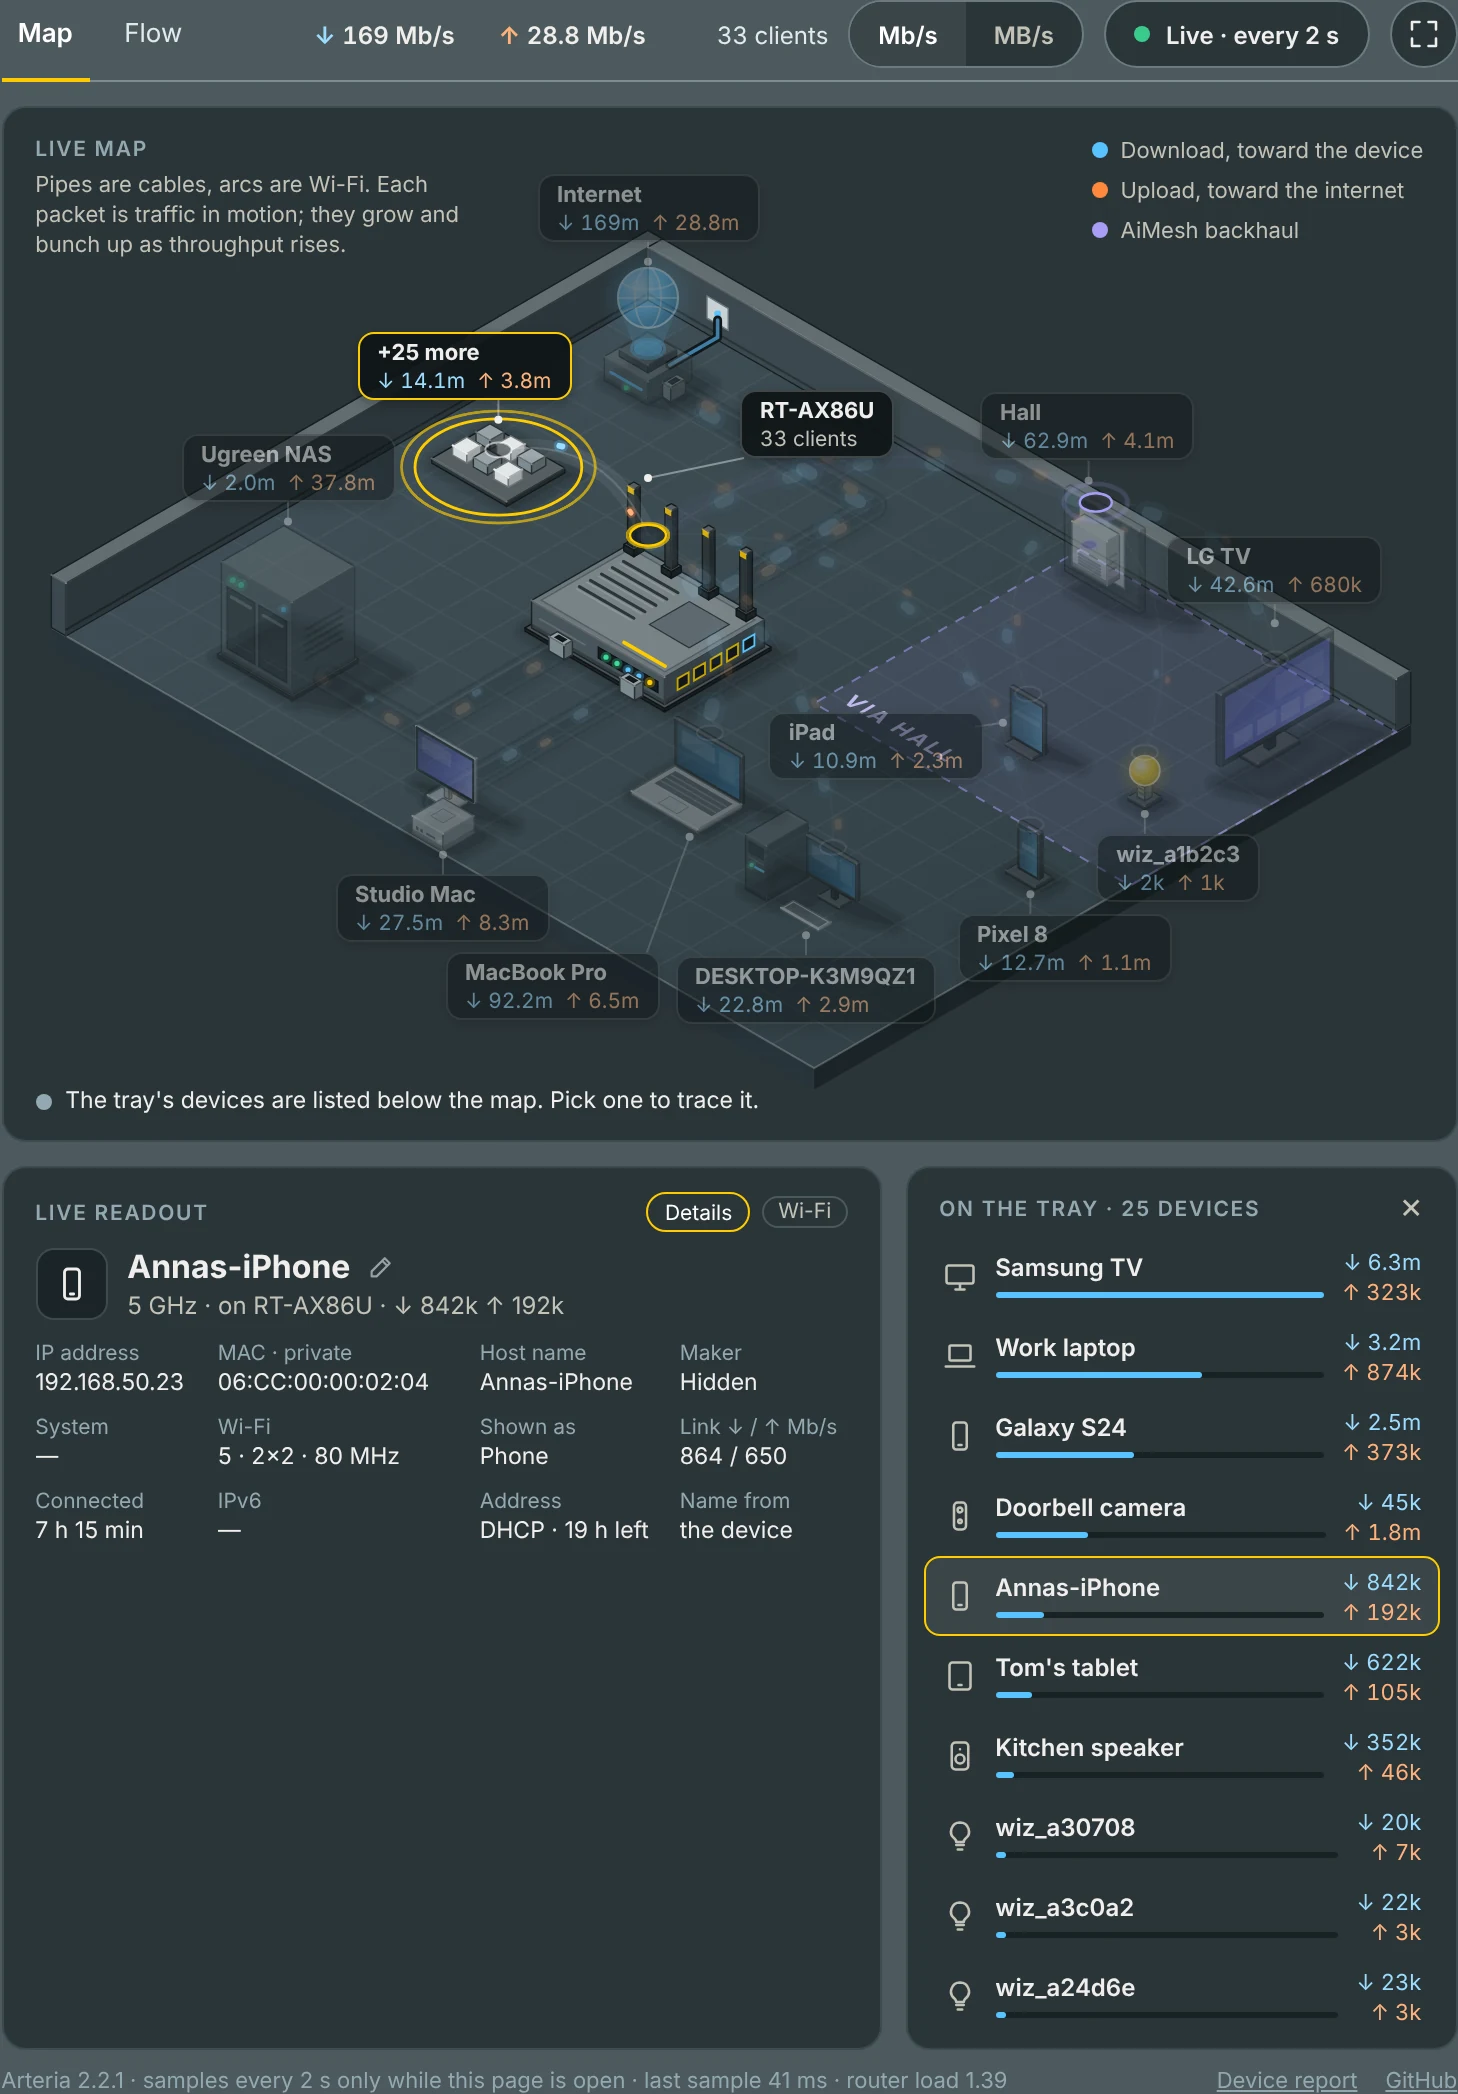
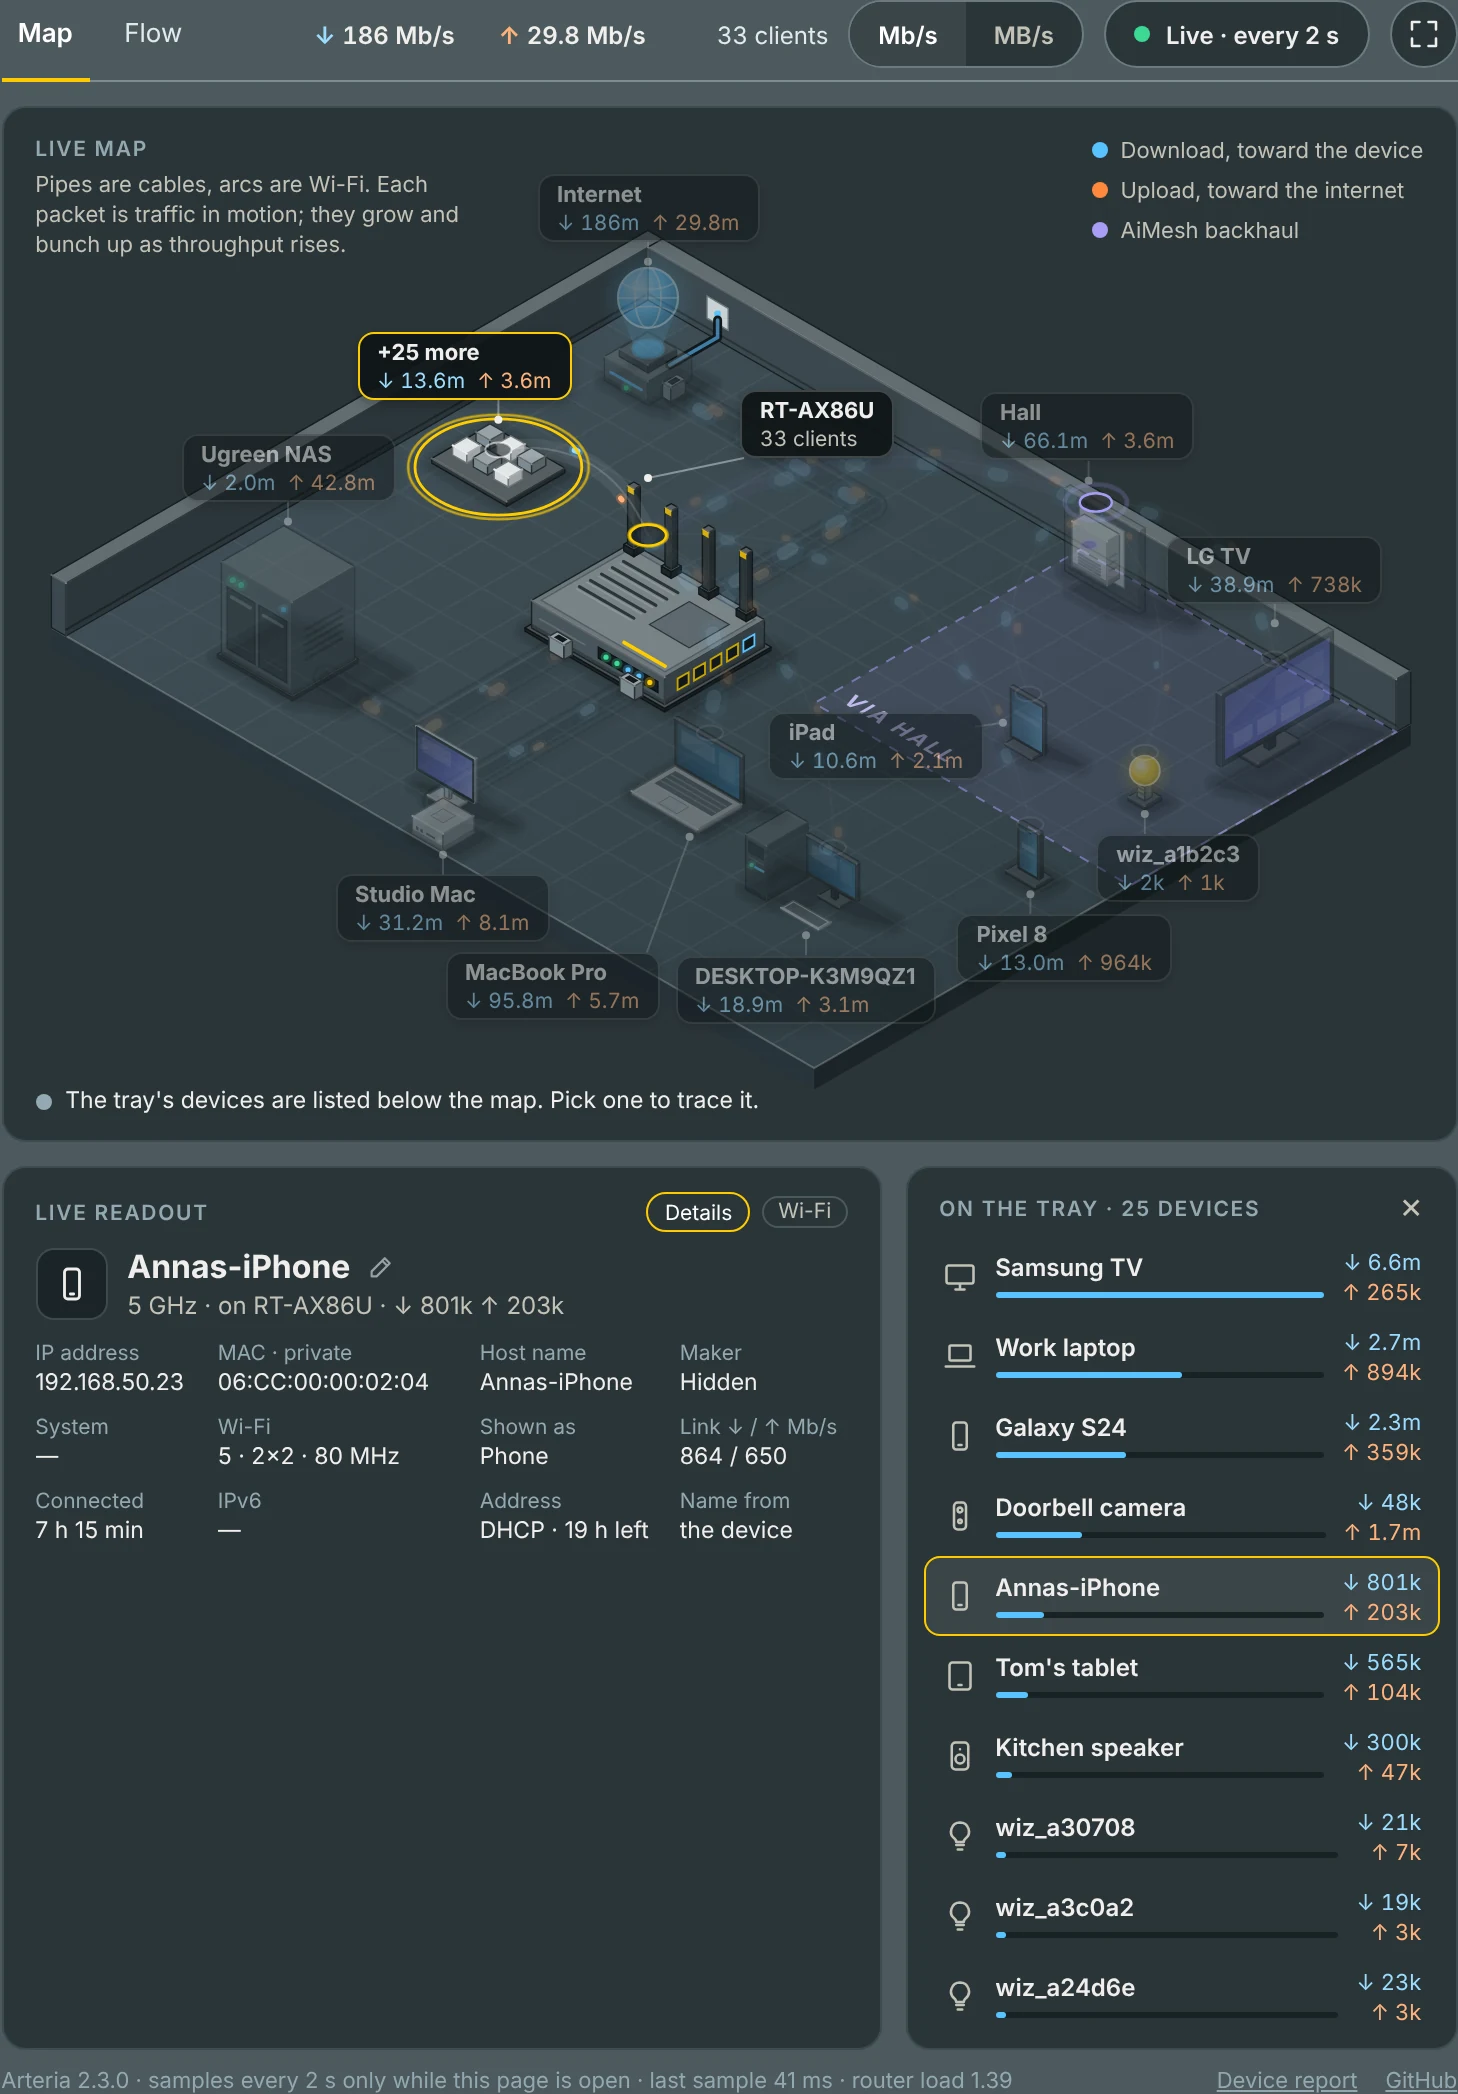
Release 2.3.0
VERSION 2.3.0 in the script, the page and the bug report form (2.2.1 was
never released: its map work is in 2.3.0). CHANGELOG: 2.3.0, the map's
room and traffic lines, busy devices off the tray, VLAN and IPTV ports,
nodes' sleeping Wi-Fi devices. README: those, and which releases were
reviewed. The README's pictures, demo and forum GIF retaken (2.3.0 in the
footer).

Claude-Session: https://claude.ai/code/session_01VjX2uxd3MpU6CZq6psEPw5

Changed region(s): [[0.0617, 0.9933, 0.7099, 1.0], [0.2778, 0.1862, 0.4321, 0.2483], [0.3086, 0.6208, 0.3395, 0.6519]]

diff --git a/README.md b/README.md
@@ -13,7 +13,7 @@ It only works while you're looking: sampling starts when you open its page and s
 
 An **Arteria** tab in **Traffic Analyzer** (or the last tab of **Network Tools** on routers without it), with:
 
-- **Map**: an isometric drawing of your network. Cables are pipes (to a node on a wired backhaul and its wired devices too), Wi-Fi links are arcs, and each moving packet is traffic: blue toward the device (download), orange toward the internet (upload), violet the AiMesh backhaul. Packets grow and bunch up as throughput rises. Devices behind a node stand in its zone, devices of a kind stand together (bulbs by bulbs, TVs by TVs), no two drawings overlap, and each label sits right next to its device, off other devices' traffic. The map leaves room round each device when it can, and packs them closer only to show more of them. When a zone is full, the rest wait on a *+N more* tray, which opens a list; a busy device comes off it, but traffic never moves a device that is already on the map. The map has room for two nodes, three in the expanded view: with more, the busiest get a zone (when none is much busier, the ones with the most devices), and the tray names the others (*+1 node*), with their devices in its list. Flow shows every node.
+- **Map**: an isometric drawing of your network. Cables are pipes (to a node on a wired backhaul and its wired devices too), Wi-Fi links are arcs, and each moving packet is traffic: blue toward the device (download), orange toward the internet (upload), violet the AiMesh backhaul. Packets grow and bunch up as throughput rises. Devices behind a node stand in its zone, devices of a kind stand together (bulbs by bulbs, TVs by TVs), no two drawings overlap, and each label sits right next to its device, off other devices' traffic. The map leaves room round each device when it can, and packs them closer only to show more of them. When a zone is full, the rest wait on a *+N more* tray, which opens a list; a busy device comes off it by itself, and traffic moves a device already on the map only when a busy one has no room otherwise (then the map is laid out afresh, as on a reload). The map has room for two nodes, three in the expanded view: with more, the busiest get a zone (when none is much busier, the ones with the most devices), and the tray names the others (*+1 node*), with their devices in its list. Flow shows every node.
 - **Flow**: a Sankey "river" from the internet (and traffic between your own devices) through the router, each band, port and node, to every device, for download or upload.
 - **Trace any device**: tap it and everything else dims. The readout shows its rates, share, signal, link rate and path (*RT-AX86U → Hall → LG TV*), and **Details** shows its IP and MAC, host name, maker, system, Wi-Fi standard, connection time, IPv6 and DHCP lease.
 - **Rename it right there**: the pencil after its name opens a field; the icon shows what the new name will make it while you type. The name goes into the router's own client list, so the router shows it too. See [Devices](#devices).
@@ -28,7 +28,7 @@ An **Arteria** tab in **Traffic Analyzer** (or the last tab of **Network Tools**
 Every 2 seconds while the page is open the router writes one sample (in RAM), and the page turns the differences between samples into rates.
 
 - **Wi-Fi devices**: the driver's per-client byte counters (`wl sta_info`), which also give signal and link rate; on a node, the same counters, read on the node. A Wi-Fi 7 device that joined as a multi-link device is listed by the radio under a link address made from its own: it's matched to its own address, the one DHCP and the client list know.
-- **Wired devices**: the router's port counters, with the LAN bridges' address tables telling which device is on which port. A port has one counter, so the devices behind a switch share its figure: the switch shows as one device (*Switch on LAN 3*), and picking it lists the devices behind it by name, each with its details. A switch with an address of its own that you named so (*Switch-01*) or gave a switch's icon is named after itself, with its IP and MAC, and isn't in its own list. A switch with an AiMesh node on it carries what the port does beyond the node. Ports are numbered as printed on the router, from the firmware's own port map where it has one, and bonded ports (link aggregation) are one port, *LAN 1+2*. On a node, the same, read on the node: its LAN ports' counters (a port given to a VLAN, and a bond, too) and the addresses its bridges learned on them, leaving out the port that leads back to the router. A node's port is named after the node (*Hall LAN*): Arteria doesn't know its printed number.
+- **Wired devices**: the router's port counters, with the LAN bridges' address tables telling which device is on which port. A port has one counter, so the devices behind a switch share its figure: the switch shows as one device (*Switch on LAN 3*), and picking it lists the devices behind it by name, each with its details. A switch with an address of its own that you named so (*Switch-01*) or gave a switch's icon is named after itself, with its IP and MAC, and isn't in its own list. A switch with an AiMesh node on it carries what the port does beyond the node. Ports are numbered as printed on the router, from the firmware's own port map where it has one, bonded ports (link aggregation) are one port, *LAN 1+2*, and a port the firmware took out of its LAN list but still bridges (given to a Guest Network Pro VLAN in Access mode, or to an IPTV set-top box) is read like any other. On a node, the same, read on the node: its LAN ports' counters (a port given to a VLAN, and a bond, too) and the addresses its bridges learned on them, leaving out the port that leads back to the router; the addresses its bridges learned on the Wi-Fi it serves are its own devices (asleep too), never devices on the router's port it is behind. A node's port is named after the node (*Hall LAN*): Arteria doesn't know its printed number.
 - **AiMesh backhaul**: the router's counters for the node's Wi-Fi link or port. A node that is read counts its own uplink too, so several nodes behind one of the router's ports (a switch, or one node wired behind another) each show their own traffic.
 - **Internet**: the WAN interface's counters (both, with Dual WAN). **Local traffic** is what your devices send each other or the router itself, which is why *Whole network* is usually higher than *Internet*.
 - **Names and details** come from the router's own client list, DHCP leases and reservations, ARP and IPv6 neighbours, and the Wi-Fi driver.
@@ -182,7 +182,7 @@ For amtm's module, Arteria follows amtm's conventions for third-party scripts: w
 
 Something not working? `arteria.sh doctor` looks for the known problems and says what fixes each; `doctor fix` fixes the ones it can. It also sends a request like the page's and says whether it reaches Arteria and samples follow, which is what a page stuck on *Connecting…* needs to know. Found a bug, or run Arteria on another router? [Open an issue](https://github.com/IfSugar/arteria/issues/new/choose) or post in the [SNBForums thread](https://www.snbforums.com/threads/98274/); the issue form asks for `check` and `debug`.
 
-**Security reviews.** Each feature release was reviewed by separate AI reviewers (Claude) that hadn't written the code, looking for bugs, regressions and security problems, and showing each finding on a stand-in router and in a browser; what they found was fixed (1.0.0: [pull request #15](https://github.com/IfSugar/arteria/pull/15); 2.0.0: [pull request #27](https://github.com/IfSugar/arteria/pull/27); 2.1.0: [pull request #40](https://github.com/IfSugar/arteria/pull/40); 2.2.0: [pull request #52](https://github.com/IfSugar/arteria/pull/52)). No human security expert has reviewed it yet; if you know Merlin or shell security well, a review is very welcome. Please report security problems privately: see the [security policy](.github/SECURITY.md).
+**Security reviews.** Releases 1.0.0, 2.0.0, 2.1.0 and 2.2.0 were each reviewed by separate AI reviewers (Claude) that hadn't written the code, looking for bugs, regressions and security problems, and showing each finding on a stand-in router and in a browser; what they found was fixed (1.0.0: [pull request #15](https://github.com/IfSugar/arteria/pull/15); 2.0.0: [pull request #27](https://github.com/IfSugar/arteria/pull/27); 2.1.0: [pull request #40](https://github.com/IfSugar/arteria/pull/40); 2.2.0: [pull request #52](https://github.com/IfSugar/arteria/pull/52)). No human security expert has reviewed it yet; if you know Merlin or shell security well, a review is very welcome. Please report security problems privately: see the [security policy](.github/SECURITY.md).
 
 ## License
 

diff --git a/CHANGELOG.md b/CHANGELOG.md
@@ -2,16 +2,22 @@
 
 What changed in each release of Arteria. The release workflow copies a version's section into its GitHub release notes, so write for people running the addon.
 
-## 2.2.1
+## 2.3.0
 
-More room on the map: labels keep clear of other devices and no longer hide the traffic on other devices' lines, and in the expanded view the internet moves to the floor's top corner. The spacing adapts to how full the floor is, so the map shows as many devices as 2.2.0 did.
+More room on the map: labels keep clear of other devices and no longer hide the traffic on other devices' lines, and in the expanded view the internet moves to the floor's top corner. The spacing adapts to how full the floor is, so the map shows about as many devices as 2.2.0 did, and a device that gets busy comes off the tray by itself, a TV too. Also wired devices on a port given to a Guest Network Pro VLAN or to an IPTV set-top box, and no more sleeping Wi-Fi sensors listed behind a switch that nodes are on. Thanks to K3r1m0 and jksmurf in the SNBForums thread for reporting them.
 
 ### The map
 
 - **Labels no longer hide traffic.** A label could sit over another device's Wi-Fi arc or cable, and the packets on it went out of sight there. A label now keeps off every traffic line but its own device's, and the start of the lines leaving the router or node it stands by. A Wi-Fi arc curves more or less to pass round labels, and a cable to or from a node is laid round them.
 - **More room round each device.** Drawings stand further apart, and a label keeps a gap from the drawings that aren't its own (more in the expanded view), so labels no longer almost touch other devices.
-- **The room adapts to the floor.** The roomy layout is used when it shows every device it can. When the floor is full it moves things closer, at most as close as 2.2.0 did, rather than send devices to the **+N more** tray, so the map never shows fewer devices than 2.2.0. Only on the fullest floors may a line pass under a label, and only where that label has no other spot (8 lines on a 28-device floor in a 1920×960 window, where 2.2.0 had 25).
+- **The room adapts to the floor.** The roomy layout is used when it shows every device it can. When the floor is full it moves things closer, about as close as 2.2.0 did, rather than send devices to the **+N more** tray, so the map shows about as many devices as 2.2.0 (on a few floors, one fewer). Only on the fullest floors may a line pass under a label, and only where that label has no other spot: far fewer than in 2.2.0.
+- **A device that gets busy comes off the tray by itself.** A device waiting on the **+N more** tray that got much busier than one on the map (a TV starting a 4K stream) was picked for the map, but it took only the stand the quieter one left. When that stand was too small for its drawing (a TV where a phone stood), it stayed on the tray until the page was reloaded. The map is now laid out afresh then, as on a reload, and it shows within a sample or two. The devices already on the map may move then; otherwise traffic still never moves them.
 - **The internet stands in the floor's top corner in the expanded view**, as it does in the page's view, with its cable along the back wall. The middle of the floor is free for devices.
+
+### Wired devices and nodes
+
+- **Devices on a port given to a VLAN show.** A router LAN port set to a Guest Network Pro VLAN in Access mode (Network → VLAN, a TV or an IoT switch on VLAN 52 or 53) showed nothing: the firmware takes such a port out of the router's list of LAN ports and puts it in that VLAN's bridge alone, and Arteria read only the list. The router now also reads a port that its firmware's own port map lists as a LAN port and that is still in one of its bridges, with its number, link and traffic, as nodes do since 2.2.0. That is also the port an ISP's IPTV profile gives to a set-top box. In *All* mode the port was read already. The WAN side of an IPTV bridge, backhaul VLANs and internal links aren't LAN ports, and a router without a port map reads only its list, as before.
+- **Sleeping Wi-Fi sensors aren't listed behind a switch.** Battery sensors on a node's Wi-Fi (temperature sensors that wake every few minutes) showed as devices behind a switch on the router port the nodes are on, with no traffic. While one sleeps, it is on no node's list of Wi-Fi devices, but the router still remembers its address on that port for a few minutes. A node now also sends the addresses its own bridge learned on its Wi-Fi, and on the router port it is behind those are the node's, not devices on a switch there. Only on its Wi-Fi networks, never on its uplink, so the router's own devices stay where they are, whatever the node's radios are named (*eth6*, or *wl1* beside *wl1.1* on Wi-Fi 7 models). A device that moved from a node's Wi-Fi to a cable elsewhere shows on its new port at once. With only nodes behind an unmanaged switch, no switch shows there any more. A node that isn't read (no key) can't send them.
 
 ## 2.2.0
 
